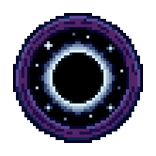
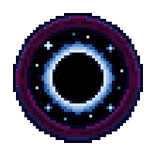
Deel 1 + 2: staf uit inventory (incl. oude saves); Deel 2: noot donkerder in kerkerwater, slot glinstert goud met sleutel, prinses waarschuwt voor de boze tovenaar, spell-sigils hercolored (#9ec3f0 blauw + #370932 paars), nieuwe boze-tovenaar-sprite (mad-wizard) kijkt naar rechts, knippert met ogen 

diff --git a/games/ravenholt-deel2/js/data.js b/games/ravenholt-deel2/js/data.js
@@ -14,7 +14,7 @@ const GAME = {
   title:      { nl: 'Fluisteringen van Ravenholt — Deel 2', en: 'Whispers of Ravenholt — Part 2' },
   titleLines: { nl: ['Fluisteringen', 'van Ravenholt', '· Deel 2 ·'], en: ['Whispers of', 'Ravenholt', '· Part 2 ·'] },
   startScene: 'courtyard',
-  assetVer: '172',
+  assetVer: '173',
 
   /* Finn — vaste figuur: roodharige jongen, blauwe kapmantel, leren tas, houten staf.
      idle = hero, lopen = 4-frame loopsheet (heroWalkSheet), zwaaien = heroWave.
@@ -67,9 +67,8 @@ const GAME = {
     squire:        'assets/art/squire.png',     // jonge schildknaap op de binnenplaats (Deel 2)
     princess:      'assets/art/princess.png',     // de prinses in de slottuin (Deel 2)
     parrot:        'assets/art/parrot.png',        // kleurrijke papagaai in de slottuin (Deel 2)
-    librarian:     'assets/art/librarian.png',    // de warrige oude tovenaar in de kasteelbibliotheek (Deel 2)
-    'librarian-trip1': 'assets/art/librarian-trip1.png',   // tovenaar in trance (paddenstoel-trip), frame 1
-    'librarian-trip2': 'assets/art/librarian-trip2.png',   // tovenaar in trance (paddenstoel-trip), frame 2
+    librarian:     'assets/art/librarian.png',    // de boze tovenaar (mad-wizard) in de kasteelbibliotheek (Deel 2)
+    'librarian-sleep': 'assets/art/librarian-sleep.png',   // dezelfde tovenaar met de ogen dicht (knipperen + paddenstoel-trance)
     dungeonGuard:  'assets/art/dungeon-guard.png',   // de wachter in de kerker (Deel 2)
     father:        'assets/art/father.png'           // Finn's gevangen vader in de kerkercel (Deel 2)
   },
@@ -77,7 +76,7 @@ const GAME = {
   spriteDetail: 2,              // sprites zijn op 2x resolutie opgeslagen; engine tekent ze op halve maat = fijnere details
 
   /* Finn begint met de staf van zijn vader én — uit Deel 1 — zijn toverboek met de twee spreuken (dansende bloemen + draak). */
-  startItems: ['staff', 'spellbook', 'spell', 'dragonspell'],
+  startItems: ['spellbook', 'spell', 'dragonspell'],
   /* Alle bladzijdes uit Deel 1 staan al in het boek: de kaart, de spreuk van dansende bloemen, het recept en de drakenspreuk. */
   startFlags: ['mapFiled', 'spellWritten', 'gotRecipe', 'dragonSpellLearned'],
 
@@ -591,7 +590,7 @@ const GAME = {
               consume: 'necklace',
               give: 'key',
               setFlag: 'gaveNecklace',
-              text: { nl: 'Je houdt de prinses de gouden ketting voor. Haar hand vliegt naar haar mond. “Mijn moeders ketting — je hebt hem gevonden!” Met tranen in haar ogen doet ze hem om. “Hoe kan ik je ooit bedanken... Hier.” Ze drukt je een oude sleutel in de hand. “Die past op het slot achter de leeuwenfontein — de geheime poort. Bijna niemand weet ervan. Wees dapper, Finn.”', en: 'You hold out the gold necklace to the princess. Her hand flies to her mouth. “My mother’s necklace — you found it!” Tears in her eyes, she fastens it on. “How can I ever thank you... Here.” She presses an old key into your hand. “It fits the lock behind the lion fountain — the secret gate. Almost no one knows of it. Be brave, Finn.”' }
+              text: { nl: 'Je houdt de prinses de gouden ketting voor. Haar hand vliegt naar haar mond. “Mijn moeders ketting — je hebt hem gevonden!” Met tranen in haar ogen doet ze hem om. “Hoe kan ik je ooit bedanken... Hier.” Ze drukt je een oude sleutel in de hand. “Die past op het slot achter de leeuwenfontein — de geheime poort. Bijna niemand weet ervan.” Dan verduistert haar blik. “Maar wees op je hoede, Finn: door die gang kom je uit in de oude bibliotheek, en daar huist een BOZE TOVENAAR. Hij fluistert ’s nachts met de sterren en broedt op duistere plannen — men zegt dat hij de macht over heel Eldoria wil grijpen. Laat hij je vooral niet betrappen. Wees dapper.”', en: 'You hold out the gold necklace to the princess. Her hand flies to her mouth. “My mother’s necklace — you found it!” Tears in her eyes, she fastens it on. “How can I ever thank you... Here.” She presses an old key into your hand. “It fits the lock behind the lion fountain — the secret gate. Almost no one knows of it.” Then her gaze darkens. “But be on your guard, Finn: that passage opens into the old library, and an EVIL WIZARD dwells there. He whispers to the stars at night and broods on dark schemes — they say he means to seize power over all of Eldoria. Whatever you do, don’t let him catch you. Be brave.”' }
             },
             sword: {
               keep: true,                                  // het gesmede zwaard blijft van Finn
@@ -818,7 +817,7 @@ const GAME = {
         bookSparkle: { x: 278, y: 150, r: 24, doneFlag: 'altarSolved' }   // het boek geeft licht: zachte gloed + sparkles, tot het zegel is opgelost
       },
       npcs: [
-        { id: 'librarian', sprite: 'librarian', x: 188, y: 260, scale: 0.86, sway: 0.014, aweSwayMul: 3.0, aweSwayMs: 1250, flip: true, filter: 'brightness(0.64) saturate(0.86)', aweSprites: ['librarian-trip1', 'librarian-trip2'], aweFlag: 'wizardTripping' },   // de pixel-tovenaar — donker; onder hypnose duidelijk waggelen + halo en twinkels (engine)
+        { id: 'librarian', sprite: 'librarian', blinkSprite: 'librarian-sleep', x: 190, y: 262, scale: 0.82, sway: 0.012, aweSwayMul: 2.6, aweSwayMs: 1350, flip: false, filter: 'brightness(0.7) saturate(0.9)', aweSprite: 'librarian-sleep', aweFlag: 'wizardTripping' },   // de boze tovenaar (mad-wizard), kijkt naar RECHTS; knippert af en toe met de ogen; na de paddenstoelen valt hij in trance/slaap (ogen dicht) + dromerig waggelen
         { id: 'libRaven', sprite: 'ravenPerch', x: 366, y: 155, scale: 1.02, flip: false, peck: true, peckAmt: 0.3 }                               // de raaf op de vensterbank — flink groter, 5px lager
       ],
       worldItems: [],
@@ -871,7 +870,7 @@ const GAME = {
           walkTo: { x: 244, y: 268 },
           look: (state) => state.flags.wizardTripping
             ? { nl: 'De oude tovenaar zweeft bijna. Hij staart met grote ogen naar het plafond en giechelt: \u201CDe sterren... de sterren d\u00E1nsen! Ik zie de hemelwielen draaien...\u201D Het gloeiende boek ziet hij allang niet meer.', en: 'The old wizard is practically floating. He stares wide-eyed at the ceiling and giggles: \u201CThe stars... the stars are DANCING! I can see the heavens turning...\u201D He has long forgotten the glowing book.' }
-            : { nl: 'Een oude tovenaar met een lange grijze baard tuurt in het gloeiende boek. \u201CNiemand raakt de sterrenspreuken aan!\u201D bromt hij. Maar zijn neus snuffelt dromerig... alsof hij ergens naar hunkert. (De raaf op de vensterbank grinnikt: \u201CKrra... paddenstoelen!\u201D)', en: 'An old wizard with a long grey beard peers into the glowing book. \u201CNo one touches the star spells!\u201D he grumbles. But his nose sniffs dreamily... as if he craves something. (The raven on the sill snickers: \u201CCaw... mushrooms!\u201D)' },
+            : { nl: 'De boze tovenaar kijkt op van het gloeiende boek en schatert het uit: \u201CHahá! Een JOCHIE? Kom jíj mij bestelen, ukkie? Ik grijp binnenkort de macht over heel Eldoria \u2014 en jij denkt dat je mijn sterrenspreuken kunt aanraken? Wegwezen, snotaap!\u201D Hij lacht kakelend en buigt zich weer over het boek. Maar zijn neus snuffelt dromerig... alsof hij ergens naar hunkert. (De raaf op de vensterbank grinnikt: \u201CKrra... paddenstoelen!\u201D)', en: 'The evil wizard looks up from the glowing book and bursts out laughing: \u201CHaha! A BOY? You, rob ME, little runt? Soon I shall seize power over all Eldoria \u2014 and you think you can touch my star spells? Get lost, brat!\u201D He cackles and bends back over the book. But his nose sniffs dreamily... as if he craves something. (The raven on the sill snickers: \u201CCaw... mushrooms!\u201D)' },
           use: {
             mushroom: {
               consume: 'mushroom',

diff --git a/games/ravenholt-deel2/js/engine.js b/games/ravenholt-deel2/js/engine.js
@@ -1649,7 +1649,13 @@
       if (state.flags.nutInPuddle && !state.flags.plantDancing) {
         const bob = Math.sin(now / 700) * 1.2;                                   // dobberen
         if (ready(p._imgNut)) {
-          fctx.drawImage(p._imgNut, p.x - 7, p.y - 12 + bob, 14, 14);
+          fctx.save();
+          fctx.globalAlpha = 0.85;
+          fctx.drawImage(p._imgNut, p.x - 7, p.y - 12 + bob, 14, 14);   // wat donkerder in het schemerige water
+          fctx.globalCompositeOperation = 'source-atop';
+          fctx.fillStyle = 'rgba(10,16,26,0.42)';
+          fctx.fillRect(p.x - 7, p.y - 12 + bob, 14, 14);
+          fctx.restore();
         } else {
           fctx.fillStyle = '#6b4a26'; fctx.fillRect(p.x - 2, p.y - 2, 4, 3);
         }
@@ -1708,13 +1714,15 @@
     /* Gouden glinster op het celslot (bv. zodra je de gouden sleutel hebt) */
     if (fx.lockGlint && (!fx.lockGlint.requiresFlag || state.flags[fx.lockGlint.requiresFlag]) && !(fx.lockGlint.doneFlag && state.flags[fx.lockGlint.doneFlag])) {
       const l = fx.lockGlint;
-      const a = 0.35 + 0.45 * (0.5 + 0.5 * Math.sin(now / 520));
-      const g2 = fctx.createRadialGradient(l.x, l.y, 1, l.x, l.y, 9);
-      g2.addColorStop(0, `rgba(255,215,120,${(a * 0.5).toFixed(3)})`);
+      const a = 0.5 + 0.5 * (0.5 + 0.5 * Math.sin(now / 460));
+      const g2 = fctx.createRadialGradient(l.x, l.y, 1, l.x, l.y, 13);
+      g2.addColorStop(0, `rgba(255,220,130,${(a * 0.7).toFixed(3)})`);
       g2.addColorStop(1, 'rgba(255,215,120,0)');
-      fctx.fillStyle = g2; fctx.fillRect(l.x - 9, l.y - 9, 18, 18);
-      twinkle(l.x, l.y, a, '255,225,140');
-      if (((now / 700) | 0) % 3 === 0) twinkle(l.x + 3, l.y - 3, a * 0.7, '255,240,190');
+      fctx.fillStyle = g2; fctx.fillRect(l.x - 13, l.y - 13, 26, 26);
+      twinkle(l.x, l.y, a, '255,230,150');
+      const spark = ((now / 380) | 0) % 3;                       // wisselende fonkel-plek rondom het slot
+      const so = [[3, -3], [-3, 2], [2, 3]][spark];
+      twinkle(l.x + so[0], l.y + so[1], a * 0.85, '255,245,200');
     }
     /* Fontein klatert alléén als de molen weer draait (requiresFlag, bv. millFixed);
        daarvoor staat de bron droog. Meerdere straaltjes mogelijk (links + rechts). */
@@ -2610,6 +2618,11 @@
          Heeft de NPC een gestureSprite, dan toont hij die af en toe (bv. de burgemeester
          die wanhopig met zijn handen wringt omdat er geen water is). */
       let img = art.sprites[npc.sprite];
+      /* Af en toe knipperen: kort omschakelen naar de 'ogen dicht'-sprite (mits niet in trance). */
+      if (npc.blinkSprite && ready(art.sprites[npc.blinkSprite]) && !(npc.aweFlag && state.flags[npc.aweFlag])) {
+        const bp = (now + (npc.x || 0) * 17) % 4300;
+        if (bp < 140) img = art.sprites[npc.blinkSprite];
+      }
       /* Blikrichting-sprites: een NPC kan rustig heen en weer 'spieden' (scanSprites,
          bv. de koopman die van zijn kar naar de wacht kijkt) en omschakelen naar een
          verbaasde blik zodra een vlag is gezet (aweSprite, bv. starend naar de dansende bloem). */
@@ -6826,6 +6839,7 @@
     state = newState();
     state.currentScene = s.scene;
     state.inventory = Array.isArray(s.inventory) ? s.inventory.slice() : state.inventory;
+    state.inventory = state.inventory.filter((it) => it !== 'staff');   // de staf zit niet meer in de tas (ook oude saves opschonen)
     state.flags = (s.flags && typeof s.flags === 'object') ? s.flags : {};
     state.selectedItem = null;
     return true;

diff --git a/games/ravenholt-deel2/index.html b/games/ravenholt-deel2/index.html
@@ -26,7 +26,7 @@
   <link rel="preconnect" href="https://fonts.googleapis.com">
   <link rel="preconnect" href="https://fonts.gstatic.com" crossorigin>
   <link href="https://fonts.googleapis.com/css2?family=Crimson+Pro:ital,wght@0,400;0,600;1,400&family=Pixelify+Sans:wght@400;600&display=swap" rel="stylesheet">
-  <link rel="stylesheet" href="css/style.css?v=172">
+  <link rel="stylesheet" href="css/style.css?v=173">
   <script type="application/ld+json">
   {
     "@context": "https://schema.org",
@@ -125,7 +125,7 @@
   </div>
 
   <div id="title-screen" class="overlay title">
-    <img class="title-bg" src="assets/art/title.jpg?v=172" alt="Whispers of Ravenholt" onerror="this.remove()">
+    <img class="title-bg" src="assets/art/title.jpg?v=173" alt="Whispers of Ravenholt" onerror="this.remove()">
     <div class="title-content">
       <h1 id="title-h1" hidden><span>Whispers of</span><br><span>Ravenholt</span></h1>
       <p id="title-sub" class="subtitle" hidden>Een point-and-click avontuur</p>
@@ -146,7 +146,7 @@
 
   <div id="win-screen" class="overlay" hidden>
     <div class="overlay-card panel">
-      <img class="win-banner" src="assets/art/win-deel2.jpg?v=172" alt="" onerror="this.remove()">
+      <img class="win-banner" src="assets/art/win-deel2.jpg?v=173" alt="" onerror="this.remove()">
       <h1 id="win-h1">Deel 1 uitgespeeld!</h1>
       <p class="intro" id="winText"></p>
       <button id="replayBtn" class="gold-btn">Opnieuw spelen</button>
@@ -314,10 +314,10 @@
     </div>
   </div>
 
-  <script src="js/sprites.js?v=172"></script>
-  <script src="js/scenes.js?v=172"></script>
-  <script src="js/data.js?v=172"></script>
-  <script src="js/engine.js?v=172"></script>
+  <script src="js/sprites.js?v=173"></script>
+  <script src="js/scenes.js?v=173"></script>
+  <script src="js/data.js?v=173"></script>
+  <script src="js/engine.js?v=173"></script>
   <script>
     if ('serviceWorker' in navigator) {
       window.addEventListener('load', () => {

diff --git a/games/ravenholt/index.html b/games/ravenholt/index.html
@@ -26,7 +26,7 @@
   <link rel="preconnect" href="https://fonts.googleapis.com">
   <link rel="preconnect" href="https://fonts.gstatic.com" crossorigin>
   <link href="https://fonts.googleapis.com/css2?family=Crimson+Pro:ital,wght@0,400;0,600;1,400&family=Pixelify+Sans:wght@400;600&display=swap" rel="stylesheet">
-  <link rel="stylesheet" href="css/style.css?v=178">
+  <link rel="stylesheet" href="css/style.css?v=179">
   <script type="application/ld+json">
   {
     "@context": "https://schema.org",
@@ -124,7 +124,7 @@
   </div>
 
   <div id="title-screen" class="overlay title">
-    <img class="title-bg" src="assets/art/title.jpg?v=178" alt="Whispers of Ravenholt" onerror="this.remove()">
+    <img class="title-bg" src="assets/art/title.jpg?v=179" alt="Whispers of Ravenholt" onerror="this.remove()">
     <div class="title-content">
       <h1 id="title-h1" hidden><span>Whispers of</span><br><span>Ravenholt</span></h1>
       <p id="title-sub" class="subtitle" hidden>Een point-and-click avontuur</p>
@@ -145,7 +145,7 @@
 
   <div id="win-screen" class="overlay" hidden>
     <div class="overlay-card panel">
-      <img class="win-banner" src="assets/art/win-deel2.jpg?v=178" alt="" onerror="this.remove()">
+      <img class="win-banner" src="assets/art/win-deel2.jpg?v=179" alt="" onerror="this.remove()">
       <h1 id="win-h1">Deel 1 uitgespeeld!</h1>
       <p class="intro" id="winText"></p>
       <button id="replayBtn" class="gold-btn">Opnieuw spelen</button>
@@ -257,10 +257,10 @@
     </div>
   </div>
 
-  <script src="js/sprites.js?v=178"></script>
-  <script src="js/scenes.js?v=178"></script>
-  <script src="js/data.js?v=178"></script>
-  <script src="js/engine.js?v=178"></script>
+  <script src="js/sprites.js?v=179"></script>
+  <script src="js/scenes.js?v=179"></script>
+  <script src="js/data.js?v=179"></script>
+  <script src="js/engine.js?v=179"></script>
   <script>
     if ('serviceWorker' in navigator) {
       window.addEventListener('load', () => {

diff --git a/games/ravenholt/js/data.js b/games/ravenholt/js/data.js
@@ -14,7 +14,7 @@ const GAME = {
   title:      { nl: 'Fluisteringen van Ravenholt', en: 'Whispers of Ravenholt' },
   titleLines: { nl: ['Fluisteringen', 'van Ravenholt'], en: ['Whispers of', 'Ravenholt'] },
   startScene: 'square',
-  assetVer: '178',
+  assetVer: '179',
 
   /* Finn — vaste figuur: roodharige jongen, blauwe kapmantel, leren tas, houten staf.
      idle = hero, lopen = 4-frame loopsheet (heroWalkSheet), zwaaien = heroWave.
@@ -69,7 +69,7 @@ const GAME = {
   spriteDetail: 2,              // sprites zijn op 2x resolutie opgeslagen; engine tekent ze op halve maat = fijnere details
 
   /* Finn begint met de staf van zijn vader in zijn tas. */
-  startItems: ['staff'],
+  startItems: [],
 
   winText: {
     nl: 'Gefeliciteerd — je hebt DEEL 1 van Whispers of Ravenholt uitgespeeld! De drakenschaduw vervaagt, de wacht is gevlucht en Finn stapt door de open poort het kasteel van Eldoria binnen. Híer ergens zit zijn vader gevangen... maar dat verhaal, en wat er achter de poort schuilt, bewaren we voor DEEL 2. Knap gedaan, held — tot snel!',

diff --git a/games/ravenholt/js/engine.js b/games/ravenholt/js/engine.js
@@ -5192,6 +5192,7 @@
     state = newState();
     state.currentScene = s.scene;
     state.inventory = Array.isArray(s.inventory) ? s.inventory.slice() : state.inventory;
+    state.inventory = state.inventory.filter((it) => it !== 'staff');   // de staf zit niet meer in de tas (ook oude saves opschonen)
     state.flags = (s.flags && typeof s.flags === 'object') ? s.flags : {};
     state.selectedItem = null;
     return true;

diff --git a/games/ravenholt-deel2/sw.js b/games/ravenholt-deel2/sw.js
@@ -4,7 +4,7 @@
    offline beschikbaar wilt hebben (optioneel — niet-vermelde bestanden worden bij
    eerste gebruik alsnog gecachet). */
 
-const CACHE = 'ravenholt2-v172';
+const CACHE = 'ravenholt2-v173';
 
 const PRECACHE = [
   './',

diff --git a/games/ravenholt/sw.js b/games/ravenholt/sw.js
@@ -4,7 +4,7 @@
    offline beschikbaar wilt hebben (optioneel — niet-vermelde bestanden worden bij
    eerste gebruik alsnog gecachet). */
 
-const CACHE = 'ravenholt-v178';
+const CACHE = 'ravenholt-v179';
 
 const PRECACHE = [
   './',
